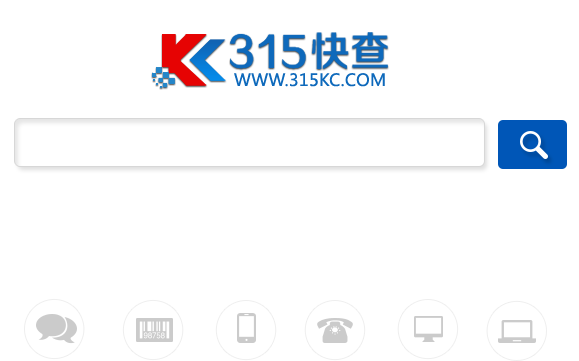
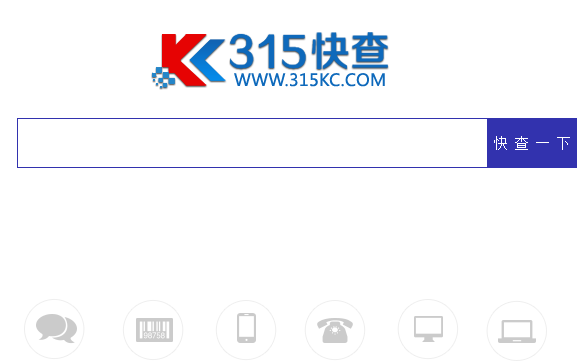
20160709zx01

Changed region(s): [[0.0311, 0.3047, 1.0, 0.4875], [0.0, 0.3352, 0.0311, 0.4571]]

diff --git a/src/main/webapp/index.html b/src/main/webapp/index.html
@@ -3,12 +3,10 @@
 <head>
     <meta http-equiv="Content-Type" content="text/html; charset=UTF-8">
     <meta http-equiv="X-UA-Compatible" content="IE=edge">
-    <meta name="description"
-          content="中国3•15快查联盟是集防伪技术研发、防伪标签印刷、防伪码查询为一体权威防伪机构。315快查防伪中
-心已推出二维码防伪积分系统、防伪防窜货系统、渠道管理系统、二维码防伪溯源系统、微信扫码通等高端行业防伪解决方案
-，欢迎来电咨询。">
+    <meta name="description" content="中国315快查联盟是集防伪技术研发、防伪标签印刷、防伪码查询为一体权威防伪机构。315快查防伪中
+心已推出二维码防伪积分系统、防伪防窜货系统、渠道管理系统、二维码防伪溯源系统、微信扫码通等高端行业防伪解决方案，315快查物联网大数据搜索引擎。">
     <meta name="keywords" content="防伪标签,二维码防伪,二维码防伪标签,防伪码查询">
-    <title>快查-中国315快查联盟-快查防伪标签|二维码防伪标签|防伪码查询网站！</title>
+    <title>【快查-中国315快查联盟】-二维码防伪标签-二维码溯源标签-315快查物联网大数据搜索引擎！</title>
     <meta name="renderer" content="webkit">
     <meta http-equiv="Cache-Control" content="no-siteapp">
     <link rel="icon" href="favicon.ico">
@@ -16,7 +14,7 @@
     <style type="text/css">
         body {
             margin-top: 0;
-            background-color: #EFEFEF;
+            background-color: #FFF;
         }
     </style>
 </head>
@@ -34,35 +32,26 @@
     })
 </script>
 <body>
-<div class="backgroound_quanju">
+<div class="backgroound_315kc">
     <div class="hrdengd">
         <div class="kuand index_quanju clear">
-            <h2 class="fl">您好，欢迎来中国3•15快查联盟官方网站!</h2>
+            <h2 class="fl">您好，欢迎来中国315快查联盟官方网站!</h2>
 
             <div class="fr" style="float:right;">
-                <a href="fw-index.html" target="_blank"
-
-                   class="headLink">防伪首页&nbsp;|</a><a
-                    href="fw-index.html#P1" target="_blank" class="headLink">防伪技术&nbsp;|</a><a
-                    href="fw-index.html#P2" target="_blank"
-
-                    class="headLink">行业防伪&nbsp;|</a><a
-                    href="fw-index.html#P3" target="_blank" class="headLink">解决方案&nbsp;|</a><a
-                    href="fw-index.html#P4" target="_blank"
-
-                    class="headLink">资讯中心&nbsp;</a>
+               <iframe width="380" scrolling="no" height="18" frameborder="0" allowtransparency="true" src="http://i.tianqi.com/index.php?c=code&id=1&color=%23&icon=1&wind=0&num=2"></iframe>
             </div>
         </div>
     </div>
     <div class="background_warry">
         <div class="index_quanju">
-            <div class="opkius logo">
+            <div class="logo">
+			<a href="http://www.315kc.com/"><img src="images/logopic.png" alt="快查-315快查官网" /></a>
+			</div>
             </div>
             <div class="clear index_i">
                 <form action="ok.html" method="POST" id="Query">
                     <div class="opkius input fl">
-                        <input id="unquie_code" name="unquie_code" maxlength="30" placeholder="防伪码由20位数
-字和字母组成" required="true" autofocus=""
+                        <input id="unquie_code" name="unquie_code" maxlength="30" placeholder="输入物品识别码" required="true" autofocus=""
                                type="text">
                     </div>
                     <div class="opkius suoshou fl">
@@ -70,7 +59,7 @@
                     </div>
                 </form>
             </div>
-            <div class="liucheng">
+      <div class="liucheng">
                 <div class="shuziliuc clear">
                     <h2 class="fl">
                         查询流程：
@@ -78,12 +67,12 @@
 
                     <div class="fl">
                         <div class="clear index_op">
-                            <a class="fl">01</a> <span class="fl">获取防伪码<i>&gt;</i></span>
+                            <a class="fl">01</a> <span class="fl">获取识别码<i>&gt;</i></span>
                         </div>
                     </div>
                     <div class="fl">
                         <div class="clear index_op">
-                            <a class="fl">02</a> <span class="fl">输入防伪码<i>&gt;</i></span>
+                            <a class="fl">02</a> <span class="fl">输入识别码<i>&gt;</i></span>
                         </div>
                     </div>
                     <div class="fl">
@@ -97,31 +86,14 @@
                         </div>
                     </div>
                 </div>
-                <h3 class="text_wenben">
-                    您还可以通过以下方式进行防伪查询
-                </h3>
-                <ul class="index_opk clear">
-                    <li class="index_now_1">
-                        微信查询
-                    </li>
-                    <li class="index_now_2">
-                        二维码查询
-                    </li>
-                    <li class="index_now_3">
-                        短信查询
-                    </li>
-                    <li class="index_now_4">
-                        电话查询
-                    </li>
-                    <li class="index_now_5">
-                        官网查询
-                    </li>
-                    <li class="index_now_6">
-                        网站查询
-                    </li>
-                </ul>
-            </div>
+               
+              
         </div>
+		<div style="margin:0px auto; width:370px; height:35px; display:block; clear:both;"> 
+		 <h3 class="text_wenben">
+                    申请入网，加入快查：315快查联盟!
+                </h3>
+		 <a href="http://shop.315kc.com" target="_blank"><img src="images/shujubanner.png" border="0"></a> </div>
     </div>
 
 </div>
@@ -147,10 +119,19 @@
         return flag;
     }
 </script>
-<footer style="clear:both;width:600px;height:50px;text-align:center;margin:auto;">
-    <p>南京安查通信息技术有限公司<a href="http://shop.315kc.com/article.php?id=21 " target="_blank">(关于我
-        们)</a></p>
-    <p>地址：江苏省南京市麒麟科技园创智路200号；电话：025-84443783</p>
-</footer>
+
+<div  style="clear:both;width:100%;height:50px;text-align:center; margin-top:50px; border-top:2px #C4C4FC solid; line-height:30px;">
+    <p>Copyright 2010-2016&nbsp;&nbsp;版权所有:315快查联盟&nbsp;<a href="http://shop.315kc.com/article.php?id=21 " target="_blank">关于我们</a>&nbsp;&nbsp;国家工业信息化部网站备案号：<a href="http://www.miitbeian.gov.cn/" target="_blank">苏ICP备16010616号</a>
+</p>
+</div>
+<script>
+var _hmt = _hmt || [];
+(function() {
+  var hm = document.createElement("script");
+  hm.src = "//hm.baidu.com/hm.js?12476fd246e64bad29d4a178bbb21a50";
+  var s = document.getElementsByTagName("script")[0];
+  s.parentNode.insertBefore(hm, s);
+})();
+</script>
 </body>
 </html>

diff --git a/src/main/webapp/ok.html b/src/main/webapp/ok.html
@@ -4,15 +4,16 @@
 <meta http-equiv="Content-Type" content="text/html; charset=UTF-8">
 	<meta http-equiv="X-UA-Compatible" content="IE=edge"><meta name="description" content="中国3•15快查联盟是集防伪技术研发、防伪标签印刷、防伪码查询为一体权威防伪机构(业务电话：4000-870-163)。315快查防伪中心已推出二维码防伪积分系统、防伪防窜货系统、渠道管理系统、二维码防伪溯源系统、微信扫码通等高端行业防伪解决方案，欢迎来电咨询。">
 	<meta name="keywords" content="防伪标签,二维码防伪,二维码防伪标签,防伪码查询">
-	<title>快查-中国315快查联盟-快查防伪标签|二维码防伪标签|防伪码查询网站！</title>
+   <title>搜索结果页-【快查-中国315快查联盟】-二维码防伪标签-二维码溯源标签-315快查物联网大数据搜索引擎！</title>
 <meta name="renderer" content="webkit">
 <meta http-equiv="Cache-Control" content="no-siteapp">
 <link rel="icon" href="favicon.ico">
 <link href="css/content.css" rel="stylesheet">
     <style type="text/css">
-	body{
-		margin-top: 0;background-color: #EFEFEF;
-		}
+	body {
+            margin-top: 0;
+            background-color: #FFF;
+        }
     .STYLE1 {color: #FF0000; font-size:14px;}
     .STYLE2 {color: #0055b6;font-size:14px;}
     </style>
@@ -37,19 +38,30 @@
 	})
 </script>
 <body>
-    <div class="backgroound_quanju">
+    <div class="backgroound_315kc">
         <div class="hrdengd">
             <div class="kuand index_quanju clear">
-                <h2 class="fl">您好，欢迎来中国3•15快查联盟官方网站!</h2>
-                <div class="fr">
-                    <a href="fw-index.html" target="_blank" class="headLink">防伪首页&nbsp;|</a><a href="fw-index.html#P1" target="_blank" class="headLink">防伪技术&nbsp;|</a><a href="fw-index.html#P2" target="_blank" class="headLink">行业防伪&nbsp;|</a><a href="fw-index.html#P3" target="_blank" class="headLink">解决方案&nbsp;|</a><a href="fw-index.html#P4" target="_blank" class="headLink">资讯中心&nbsp;|</a><a href="fw-index.html#P5" target="_blank" class="headLink">加入我们</a>
-                </div>
+                <h2 class="fl">您好，欢迎来中国315快查联盟官方网站!</h2>
+               <div class="fr" style="float:right;">
+                <a href="fw-index.html" target="_blank"
+
+                   class="headLink">防伪首页&nbsp;|</a><a
+                    href="fw-index.html#P1" target="_blank" class="headLink">防伪技术&nbsp;|</a><a
+                    href="fw-index.html#P2" target="_blank"
+
+                    class="headLink">行业防伪&nbsp;|</a><a
+                    href="fw-index.html#P3" target="_blank" class="headLink">解决方案&nbsp;|</a><a
+                    href="fw-index.html#P4" target="_blank"
+
+                    class="headLink">资讯中心&nbsp;</a>
+            </div>
             </div>
         </div>
         <div class="background_warry">
 	<div class="index_quanju">
-		<div class="opkius logo">
-		</div>
+		<div class="logo">
+			<a href="http://www.315kc.com/"><img src="images/logopic.png" alt="快查-315快查官网" /></a>
+			</div>
 		<div class="clear index_i">
 			<form action="ok.html" method="POST" id="Query">
 			  <div class="opkius input fl">
@@ -60,7 +72,7 @@
 				</div>
 			</form>
 		</div>
-		<div class="liucheng2"><span style="font-size:14px; text-align:center; line-height:30px;"><br/>
+		<div class="liucheng2"><span style="font-size:14px; text-align:center; line-height:30px;">
 		查询结果：
 				</span>
 			<span style="text-align:center" id="result"></span>
@@ -72,5 +84,17 @@
     </div>
 
 
-
+<div  style="clear:both;width:100%;height:50px;text-align:center;margin-top:50px;border-top:2px #C4C4FC solid; line-height:30px;">
+    <p>Copyright 2010-2016&nbsp;&nbsp;版权所有:315快查联盟&nbsp;<a href="http://shop.315kc.com/article.php?id=21 " target="_blank">关于我们</a>&nbsp;&nbsp;国家工业信息化部网站备案号：<a href="http://www.miitbeian.gov.cn/" target="_blank">苏ICP备16010616号</a>
+</p>
+</div>
+<script>
+var _hmt = _hmt || [];
+(function() {
+  var hm = document.createElement("script");
+  hm.src = "//hm.baidu.com/hm.js?12476fd246e64bad29d4a178bbb21a50";
+  var s = document.getElementsByTagName("script")[0];
+  s.parentNode.insertBefore(hm, s);
+})();
+</script>
 </body></html>

diff --git a/src/main/webapp/css/content.css b/src/main/webapp/css/content.css
@@ -887,25 +887,25 @@ ul.sibling_l > li.pl_now1 > a, ul.sibling_l > li.pl_now1 > a > span {
 }
 
 .hrdengd {
-    background: #0E69BB;
-    height: 44px;
+    background: #EEEEEE;
+    height: 28px;
     min-width: 1024px;
     width: 100%;
 }
 
 .kuand h2 {
-    color: #fff;
-    line-height: 44px;
+    color: #353535;
+    line-height: 24px;
     width: 300px;
 }
 
 .kuand a {
-    color: #fff;
+    color: #353535;
     line-height: 44px;
 }
 
 .background_warry {
-    background: url(../images/bj.png) no-repeat center;
+/*    background: url(../images/bj.png) no-repeat center;*/
     height: 430px;
     min-width: 1024px;
     padding-top: 90px;
@@ -924,19 +924,19 @@ ul.sibling_l > li.pl_now1 > a, ul.sibling_l > li.pl_now1 > a > span {
     background-position: 0 0;
     height: 101px;
     margin: 0 auto;
-    width: 579px;
+    width: 250px;
 }
 
 .input {
     background-position: -14px -117px;
     height: 51px;
-    width: 476px;
+    width: 456px;
 }
 
 .suoshou {
-    background-position: -498px -120px;
-    height: 50px;
-    width: 70px;
+    background-position: -488px -117px;
+    height: 52px;
+    width: 88px;
 }
 
 .input input {
@@ -954,6 +954,7 @@ ul.sibling_l > li.pl_now1 > a, ul.sibling_l > li.pl_now1 > a > span {
 .liucheng2 {
     margin: 20px auto 0;
     width: 560px;
+	height:auto;
 	border:1px; border-style:solid; border-color:#CCCCCC; background-color:#FFFFFF; text-align:center;
 }
 .shuziliuc h2 {
@@ -965,8 +966,8 @@ ul.sibling_l > li.pl_now1 > a, ul.sibling_l > li.pl_now1 > a > span {
     font-family: '宋体';
 }
 
-.backgroound_quanju {
-    background: #ececec;
+.backgroound_315kc {
+    background: #FFF;
 }
 
 .index_op {

diff --git a/src/main/webapp/mobile/index.html b/src/main/webapp/mobile/index.html
@@ -88,12 +88,12 @@
 
 </body>
 <script>
-    var _hmt = _hmt || [];
-    (function () {
-        var hm = document.createElement("script");
-        hm.src = "//hm.baidu.com/hm.js?63fe0718ec5b07d3566caa0b0b9f6016";
-        var s = document.getElementsByTagName("script")[0];
-        s.parentNode.insertBefore(hm, s);
-    })();
+var _hmt = _hmt || [];
+(function() {
+  var hm = document.createElement("script");
+  hm.src = "//hm.baidu.com/hm.js?f8840ab1ec5d1cb5f521a9063d3639a0";
+  var s = document.getElementsByTagName("script")[0]; 
+  s.parentNode.insertBefore(hm, s);
+})();
 </script>
 </html>

diff --git a/src/main/webapp/m/r/tile-sh/qz.html b/src/main/webapp/m/r/tile-sh/qz.html
@@ -1,4 +1,4 @@
-<!DOCTYPE html PUBLIC "-//W3C//DTD XHTML 1.0 Transitional//EN" "http://www.w3.org/TR/xhtml1/DTD/xhtml1-transitional.dtd">
+ǽש<!DOCTYPE html PUBLIC "-//W3C//DTD XHTML 1.0 Transitional//EN" "http://www.w3.org/TR/xhtml1/DTD/xhtml1-transitional.dtd">
 <html xmlns="http://www.w3.org/1999/xhtml">
 <head>
 <meta http-equiv="Content-Type" content="text/html; charset=gb2312" />

diff --git a/src/main/webapp/mobile/index1.html b/src/main/webapp/mobile/index1.html
@@ -188,6 +188,15 @@ var _hmt = _hmt || [];
     </div>
   </div>
 </div>
+<script>
+var _hmt = _hmt || [];
+(function() {
+  var hm = document.createElement("script");
+  hm.src = "//hm.baidu.com/hm.js?f8840ab1ec5d1cb5f521a9063d3639a0";
+  var s = document.getElementsByTagName("script")[0]; 
+  s.parentNode.insertBefore(hm, s);
+})();
+</script>
 </body>
 
 </html>
